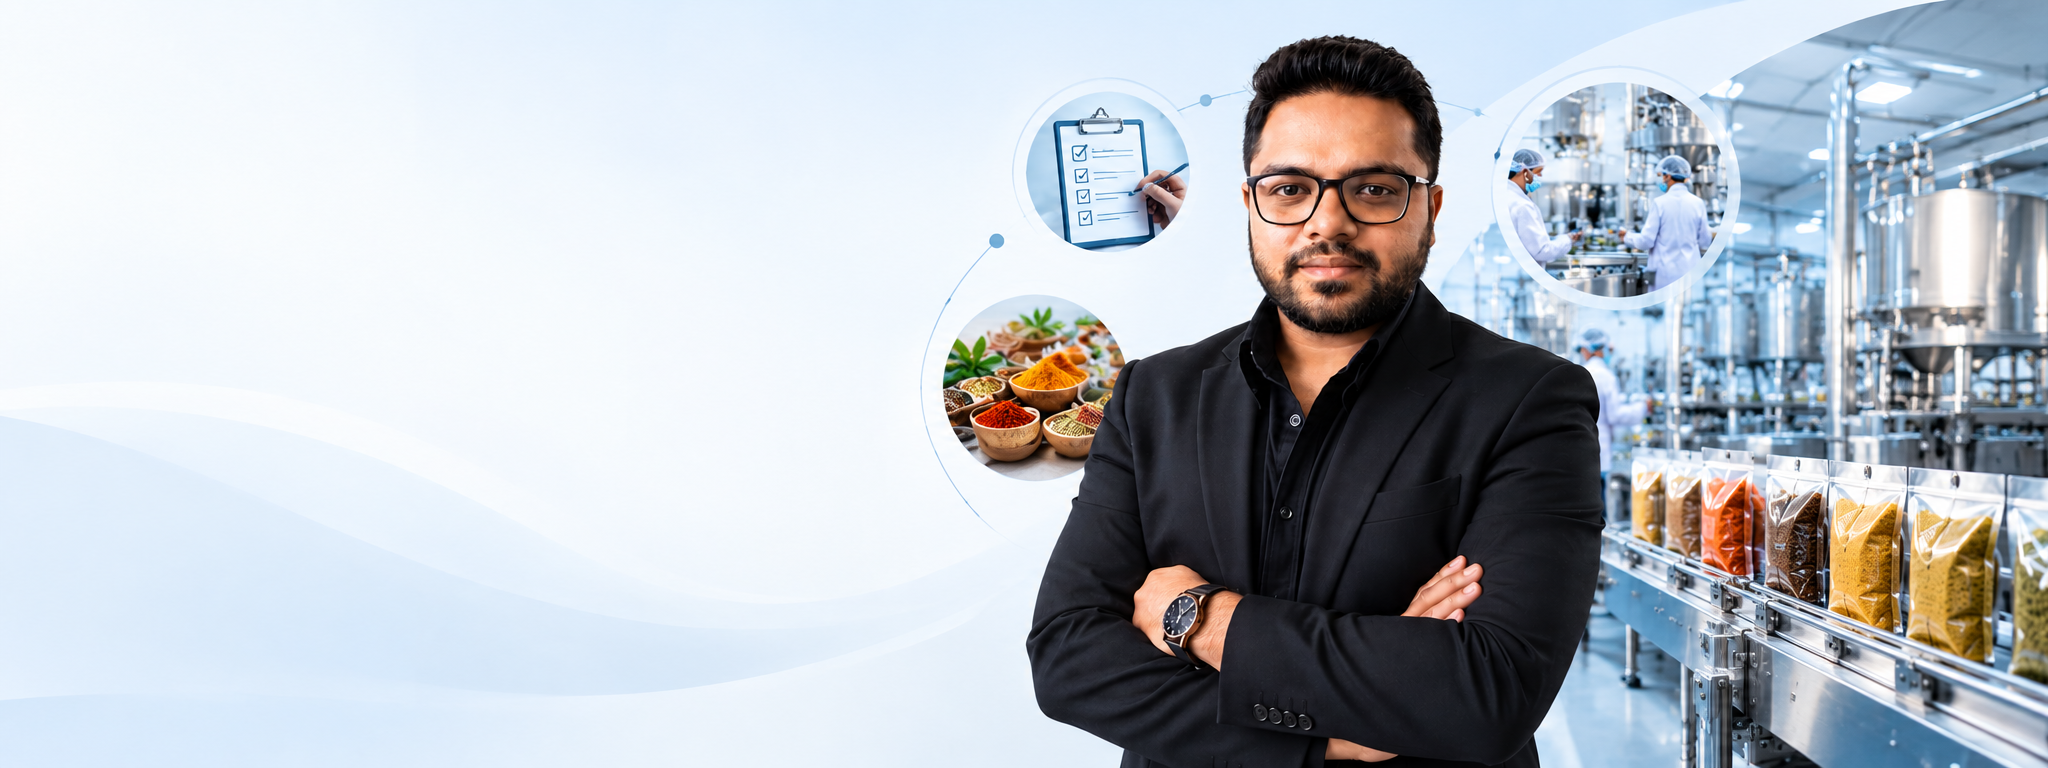
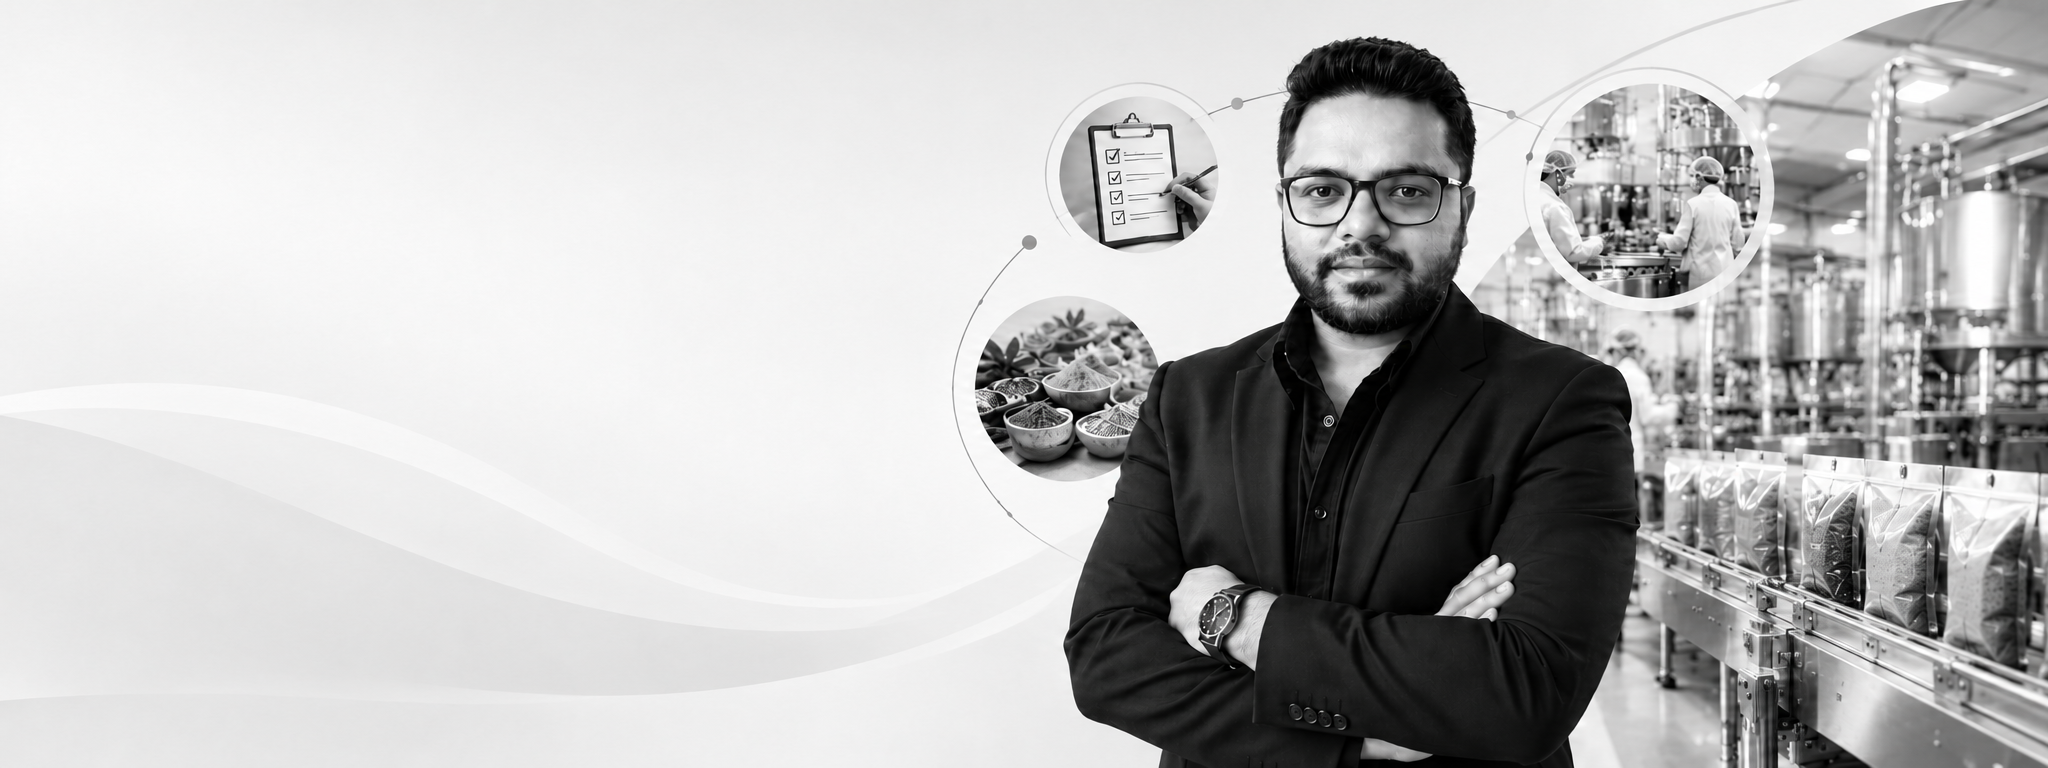
header

diff --git a/components.js b/components.js
@@ -9,12 +9,6 @@ window.KGC_COMPONENTS = {
 <!-- Navigation Menu -->
 <header class="header">
     <div class="container nav-container">
-        <div class="logo">
-            <a href="index.html">
-                <img src="assets/logo.png" alt="KGC Logo" class="nav-logo-img" style="height: 60px; width: auto; display: block;">
-            </a>
-        </div>
-
         <nav class="main-nav">
             <ul class="nav-links">
                 <li><a href="index.html">Home</a></li>

diff --git a/components/header.html b/components/header.html
@@ -1,12 +1,6 @@
 <!-- Navigation Menu -->
 <header class="header">
     <div class="container nav-container">
-        <div class="logo">
-            <a href="index.html">
-                <img src="assets/logo.png" alt="KGC Logo" style="height: 60px; width: auto; display: block;">
-            </a>
-        </div>
-
         <nav class="main-nav">
             <ul class="nav-links">
                 <li><a href="index.html">Home</a></li>

diff --git a/styles.css b/styles.css
@@ -292,7 +292,7 @@ img {
 
 .nav-container {
   display: flex;
-  justify-content: space-between;
+  justify-content: flex-end;
   align-items: center;
   height: 80px;
 }
@@ -322,6 +322,7 @@ img {
 .main-nav {
   display: flex;
   align-items: center;
+  margin-left: auto;
 }
 
 .nav-links {
